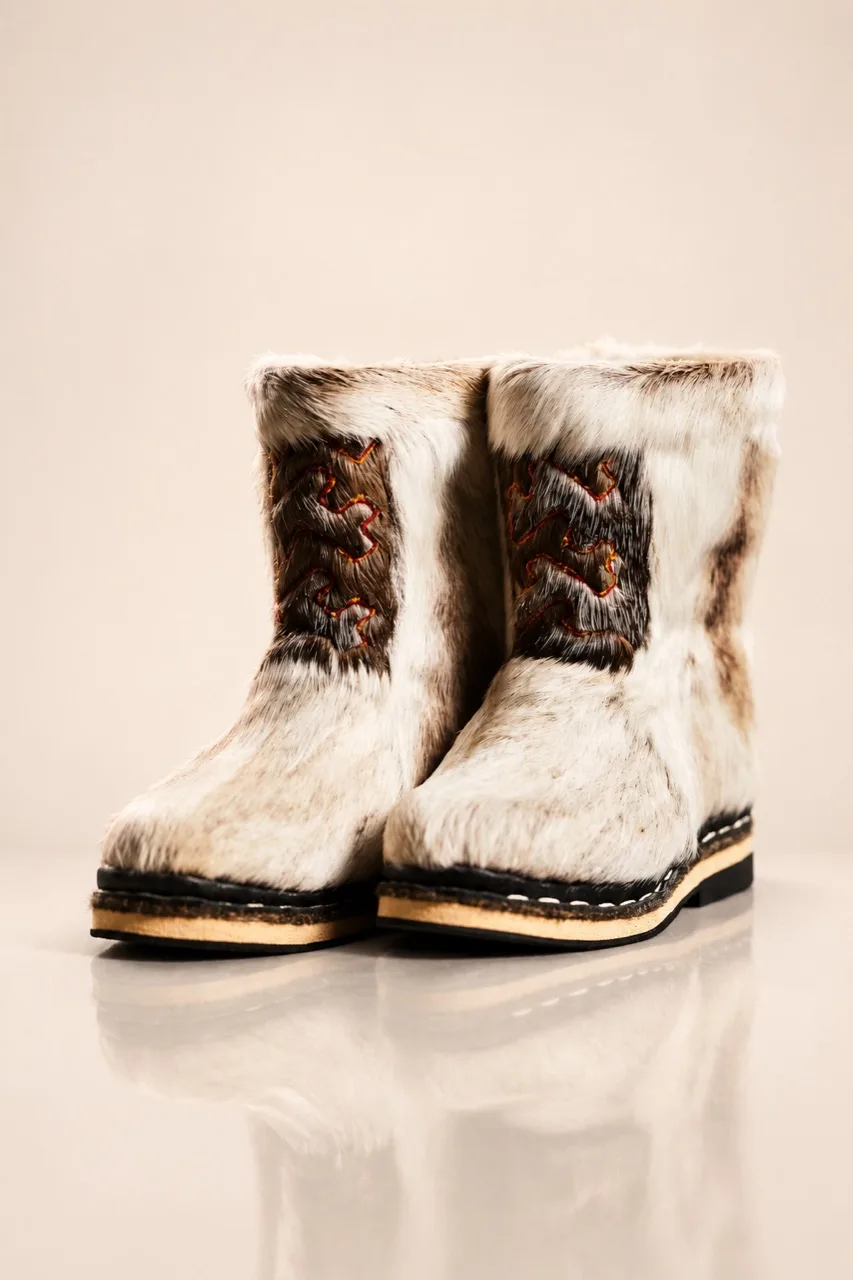
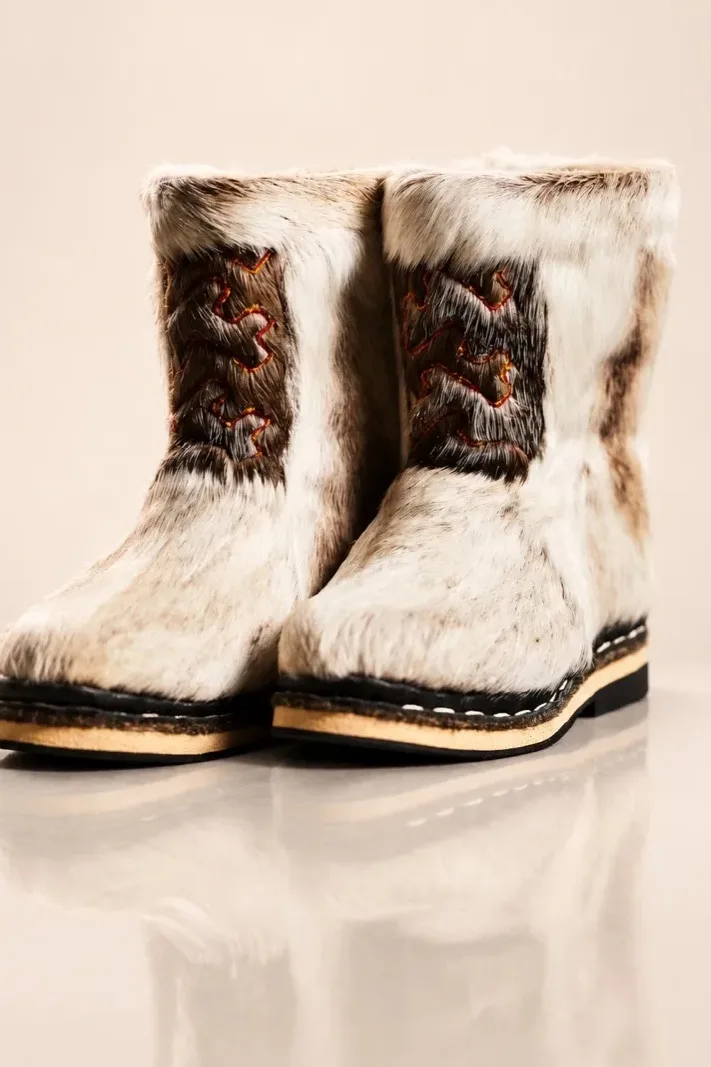
Center catalog photos and raise footer contact underline
- Catalog main photo 6:7 aligned to the bottom, so the sole is never cut
- Kids main photo cropped 1.2x with per-theme crop position, so it looks
  like the other models in the catalog and the home collection
- Footer contact underline and hover line moved closer to the text

diff --git a/catalog.html b/catalog.html
@@ -352,11 +352,14 @@
           <button class="product_zoom reveal" type="button" aria-label="Открыть галерею: детские бурки">
             <img
               class="product_photo"
+              style="object-position: center 30%"
+              data-position-dark="center 30%"
+              data-position-light="center 30%"
               src="./img/catalog/kids-1.webp"
               data-src-light="./img/catalog/kids-1-light.webp"
               alt="Светлые детские бурки с вышитым орнаментом"
-              width="853"
-              height="1280"
+              width="711"
+              height="1067"
               decoding="async" loading="lazy"
             />
           </button>
@@ -395,9 +398,11 @@
                   type="button"
                   aria-pressed="true"
                   data-photo="./img/catalog/kids-1.webp"
+                  data-position="center 30%"
+                  data-position-light="center 30%"
                   data-photo-light="./img/catalog/kids-1-light.webp"
                 >
-                  <img src="./img/catalog/kids-1.webp" data-src-light="./img/catalog/kids-1-light.webp" alt="Светлые детские бурки с вышитым орнаментом" width="853" height="1280" loading="lazy" decoding="async" />
+                  <img src="./img/catalog/kids-1.webp" data-src-light="./img/catalog/kids-1-light.webp" alt="Светлые детские бурки с вышитым орнаментом" width="711" height="1067" loading="lazy" decoding="async" />
                 </button>
               </li>
               <li>

diff --git a/css/catalog.css b/css/catalog.css
@@ -77,10 +77,11 @@
   transition: border-color var(--transition);
   width: min(
     calc((min(100vw, 1440px) - 2 * var(--container-padding) - var(--product-gap)) / 2),
-    calc((100svh - var(--header-height) - 3rem) * 0.8)
+    calc((100svh - var(--header-height) - 3rem) * 6 / 7)
   );
-  aspect-ratio: 4 / 5;
+  aspect-ratio: 6 / 7;
   object-fit: cover;
+  object-position: center bottom;
   border: 1px solid var(--color-border);
   border-radius: 0.75rem;
 }
@@ -136,6 +137,7 @@
   width: 100%;
   aspect-ratio: 1;
   object-fit: cover;
+  object-position: center 80%;
   transition: transform 0.5s ease;
 }
 
@@ -195,7 +197,7 @@
 
   .product_zoom {
     order: 1;
-    width: min(100%, calc(45svh * 0.8));
+    width: min(100%, calc(45svh * 6 / 7));
     margin-bottom: 0.75rem;
   }
 
@@ -205,7 +207,7 @@
 
   .product_thumbs {
     order: 2;
-    width: min(100%, calc(45svh * 0.8));
+    width: min(100%, calc(45svh * 6 / 7));
     margin: 0 0 1.75rem;
     gap: 0.5rem;
   }

diff --git a/index.html b/index.html
@@ -242,11 +242,14 @@
             <li class="collection_card collection_card_featured reveal" style="--reveal-delay: 0.1s">
               <img
                 class="collection_photo"
+                style="object-position: center 30%"
+                data-position-dark="center 30%"
+                data-position-light="center 30%"
                 src="./img/catalog/kids-1.webp"
                 data-src-light="./img/catalog/kids-1-light.webp"
                 alt="Светлые детские бурки с вышитым орнаментом"
-                width="853"
-                height="1280"
+                width="711"
+                height="1067"
                 loading="lazy"
                 decoding="async"
               />

diff --git a/js/catalog.js b/js/catalog.js
@@ -61,6 +61,8 @@ document.querySelectorAll(".product").forEach((product) => {
     mainPhoto.dataset.srcDark = thumb.dataset.photo;
     mainPhoto.dataset.srcLight = thumb.dataset.photoLight;
     mainPhoto.alt = thumb.querySelector("img").alt;
+    mainPhoto.dataset.positionDark = thumb.dataset.position || "";
+    mainPhoto.dataset.positionLight = thumb.dataset.positionLight || "";
     thumbs.forEach((item, i) => item.setAttribute("aria-pressed", String(i === active)));
     applyThemePhotos();
     fadeIn(mainPhoto);

diff --git a/js/theme.js b/js/theme.js
@@ -45,6 +45,7 @@ function applyThemePhotos() {
     if (!img.dataset.srcDark) img.dataset.srcDark = img.getAttribute("src");
     const wanted = isLight ? img.dataset.srcLight : img.dataset.srcDark;
     if (img.getAttribute("src") !== wanted) img.setAttribute("src", wanted);
+    img.style.objectPosition = (isLight ? img.dataset.positionLight : img.dataset.positionDark) || "";
   });
 }
 

diff --git a/css/footer.css b/css/footer.css
@@ -118,7 +118,7 @@
 .footer_contact_text::before {
   content: "";
   position: absolute;
-  bottom: -7px;
+  bottom: -4px;
   left: 0;
   width: 100%;
   height: 1px;
@@ -192,7 +192,7 @@
 }
 
 .footer_contact_text::after {
-  bottom: -7px;
+  bottom: -4px;
 }
 
 @media (hover: none) {

diff --git a/CLAUDE.md b/CLAUDE.md
@@ -92,7 +92,7 @@ README.md         project description for GitHub + Telegram setup
 - Scroll lock: `setScrollLock(name, on)` in `js/theme.js` (used by the menu, request form and gallery) toggles `html.scroll_locked` (overflow hidden on **html only** — overflow on body turns it into a scroll container and breaks the sticky header on iOS) and, while locked, cancels `touchmove` outside `.request`/`.header_nav` for iOS. Dialogs and the mobile menu have `overscroll-behavior: contain`. Use it for any new modal instead of body classes.
 - Mobile menu: while open, the header is `position: fixed` and body gets `padding-top: var(--header-height)` (`body:has(.header_nav.active_menu)`), so the logo and the × stay visible at any scroll position. `.menu_extra` (small italic note + `btn_primary` «Оставить заявку») is vertically centered in the free space (`margin-block: auto`).
 - Request form opening: dialog `scrollTop = 0`; the name field gets focus only on mouse devices (`(hover: hover) and (pointer: fine)`), so phones don't open the keyboard and the form starts from the top.
-- Footer contact texts (not the nav row) are `--footer-contact: #E2C9B1` (between the light text and the accent) with a hairline underline drawn as `::before` (same color, 1px scaled to 0.5, `bottom: -7px`) — exactly where the hover line `::after` is, so on hover the hairline fades out and the accent line grows in the same spot. Don't use `text-decoration` there (its position can't be matched).
+- Footer contact texts (not the nav row) are `--footer-contact: #E2C9B1` (between the light text and the accent) with a hairline underline drawn as `::before` (same color, 1px scaled to 0.5, `bottom: -4px`) — exactly where the hover line `::after` is, so on hover the hairline fades out and the accent line grows in the same spot. Don't use `text-decoration` there (its position can't be matched).
 - Catalog ≤600px: `.product_content` is `display: contents` and items are re-ordered with `order`: main photo → thumbs → eyebrow/title/price/text → «Заказать».
 - Icons: SVG in `img/home-page/icon-*.svg` (24×24 viewBox, stroke `#C99A70` 1.4). Sewing icons `icon-fit` (boot side view with laces, dashed insole and up arrows — line version of the owner's raster picture), `icon-tape` (tape measure), `icon-scissors` follow the owner's mockup; `icon-snowflake` is generated symmetric (6 arms, one V-branch each).
 - Cursor: one rule in base.css gives `cursor: pointer` to `a[href]`, enabled buttons, labels wrapping radios/checkboxes, `select`, `summary`. Don't set other cursors on clickable things (the gallery photo is `pointer` too, not `zoom-in`); the only exception is the disabled submit button while sending (`progress`).
@@ -110,7 +110,8 @@ README.md         project description for GitHub + Telegram setup
 - Split layout (sewing, delivery): `.container.split` with `.split_content` (left) and `.split_image` (right, `--split-image`). Photo is first in HTML so ≤900px it's on top, text centered.
 - Footer: logo + accent tagline `.footer_tagline`, vertical line, contacts in order Instagram, WhatsApp, Telegram, email (real links: `instagram.com/taiga_burki`, `wa.me/77053397249`, `t.me/dinarakurmanalieva`, `mailto:dinarakurmanalieva@bk.ru`), mountains photo, nav row between lines, `.footer_bottom` (copyright © 2026 only; no privacy policy — owner's request).
 - Request form: native `<dialog id="request_dialog">`; `data-open-request` opens, `data-close-request` closes (also Escape, backdrop click). Fields: name, contact method chips (phone/Telegram/WhatsApp/email change the contact field — see `contactMethods`), optional message. Custom validation (`.field.has_error`, `.field_error`). Fits the screen without scrolling; bottom sheet ≤450px. Focus goes to the name field via JS (not `autofocus`, Chrome blocks it with a `#hash` in the URL). Field classes `.field*` are reusable.
-- Products (catalog): `.product` grid — `.product_zoom` button with the big `.product_photo` (always 4:5, never cropped; sized by screen height) + `.product_content`: eyebrow, `.section_title`, `.product_price_row` (`.product_price` with `data-price-kzt/rub/usd` + `.currency` radio switch ₸/₽/$; default ₸, choice synced across products and saved in `localStorage.currency`; the price has a fixed `min-width: 6.4em` + `tabular-nums` so the switch doesn't jump — widest price is «от 250 000 ₸» ≈ 6.02em, raise the min-width if longer prices appear), `.product_price_note`, text, `.product_thumbs` with 4 `<button class="product_thumb" aria-pressed data-photo data-photo-light>` (all photos incl. the main one; a click selects the big photo), «Заказать» button (`data-open-request` + `data-request-message`). Touch swipe on the big photo switches photos; a tap opens the full-screen gallery `#photo_dialog` at the current photo (swipe / ← → / buttons, Escape closes). Even products have the photo on the right; ≤600px one column, centered.
+- Products (catalog): `.product` grid — `.product_zoom` button with the big `.product_photo` (6:7, `object-position: center bottom` — like the home collection: only the empty top is cropped, the sole is always visible; sized by screen height) + `.product_content`: eyebrow, `.section_title`, `.product_price_row` (`.product_price` with `data-price-kzt/rub/usd` + `.currency` radio switch ₸/₽/$; default ₸, choice synced across products and saved in `localStorage.currency`; the price has a fixed `min-width: 6.4em` + `tabular-nums` so the switch doesn't jump — widest price is «от 250 000 ₸» ≈ 6.02em, raise the min-width if longer prices appear), `.product_price_note`, text, `.product_thumbs` with 4 square (`object-position: center 80%`) `<button class="product_thumb" aria-pressed data-photo data-photo-light>` (all photos incl. the main one; a click selects the big photo), «Заказать» button (`data-open-request` + `data-request-message`). Touch swipe on the big photo switches photos; a tap opens the full-screen gallery `#photo_dialog` at the current photo (swipe / ← → / buttons, Escape closes). Even products have the photo on the right; ≤600px one column, centered.
+- Per-photo crop: an `<img>` can carry `data-position-dark` / `data-position-light` (object-position per theme, applied by `applyThemePhotos()`); a `.product_thumb` passes its `data-position` / `data-position-light` to the main photo when selected. Used for `kids-1` (its file is also pre-cropped 1.2× to 711×1067 so the kids boots look as big as the others; originals not kept in the repo).
 - How to measure (`#measure` on catalog): two `.measure_card`s with inline SVG diagrams (foot length, calf girth; colors from theme variables via classes `.measure_shape/.measure_line/.measure_guide`) and a «Отправить мерки» button that pre-fills the form message.
 - Global `img { height: auto }`: width/height attributes reserve space, CSS keeps proportions (needed for `aspect-ratio`).
 - Scroll reveal: class `reveal` + optional `style="--reveal-delay: 0.1s"`; IntersectionObserver adds `.is_visible` once; content hidden only under `.js`.
